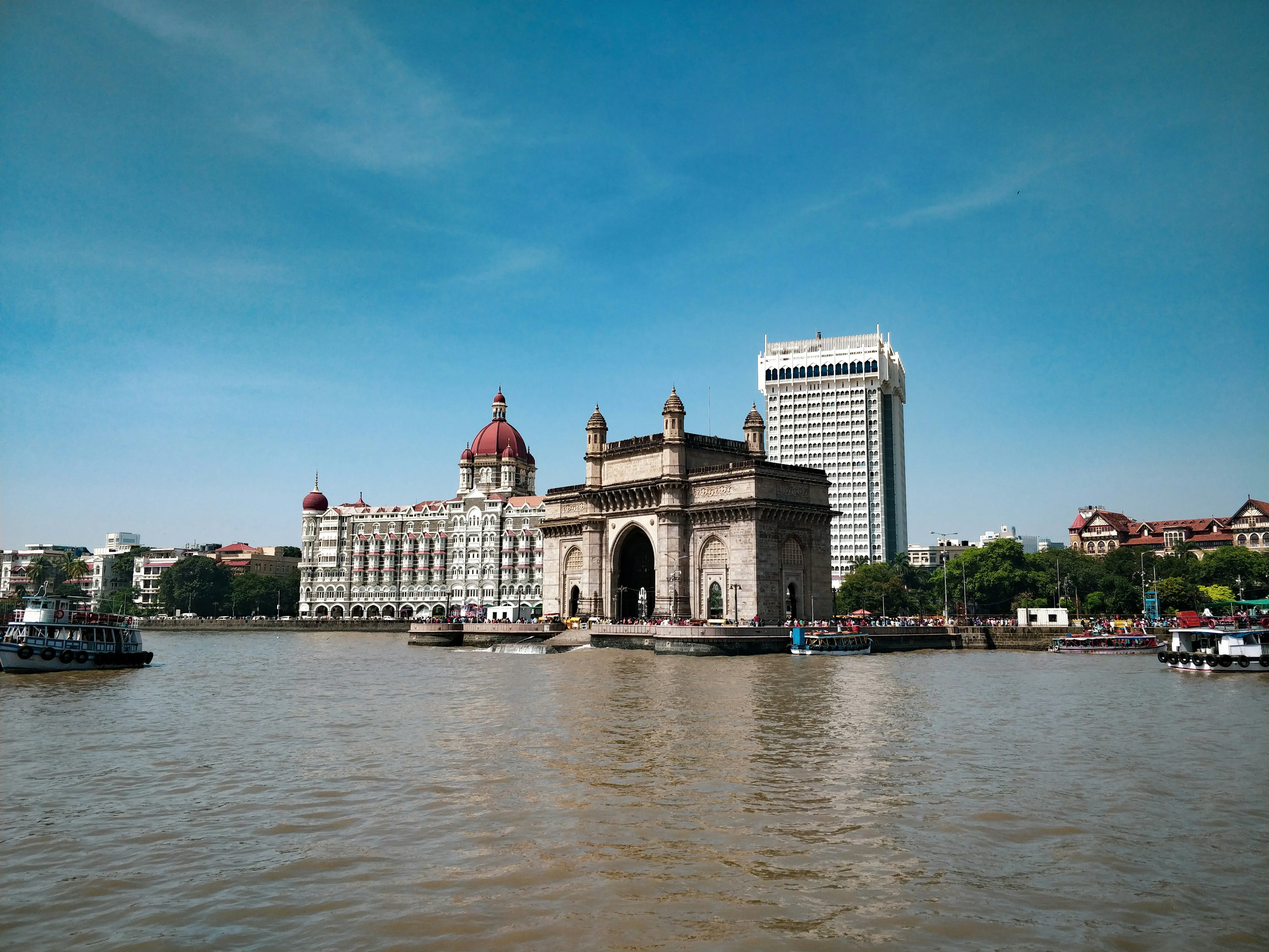
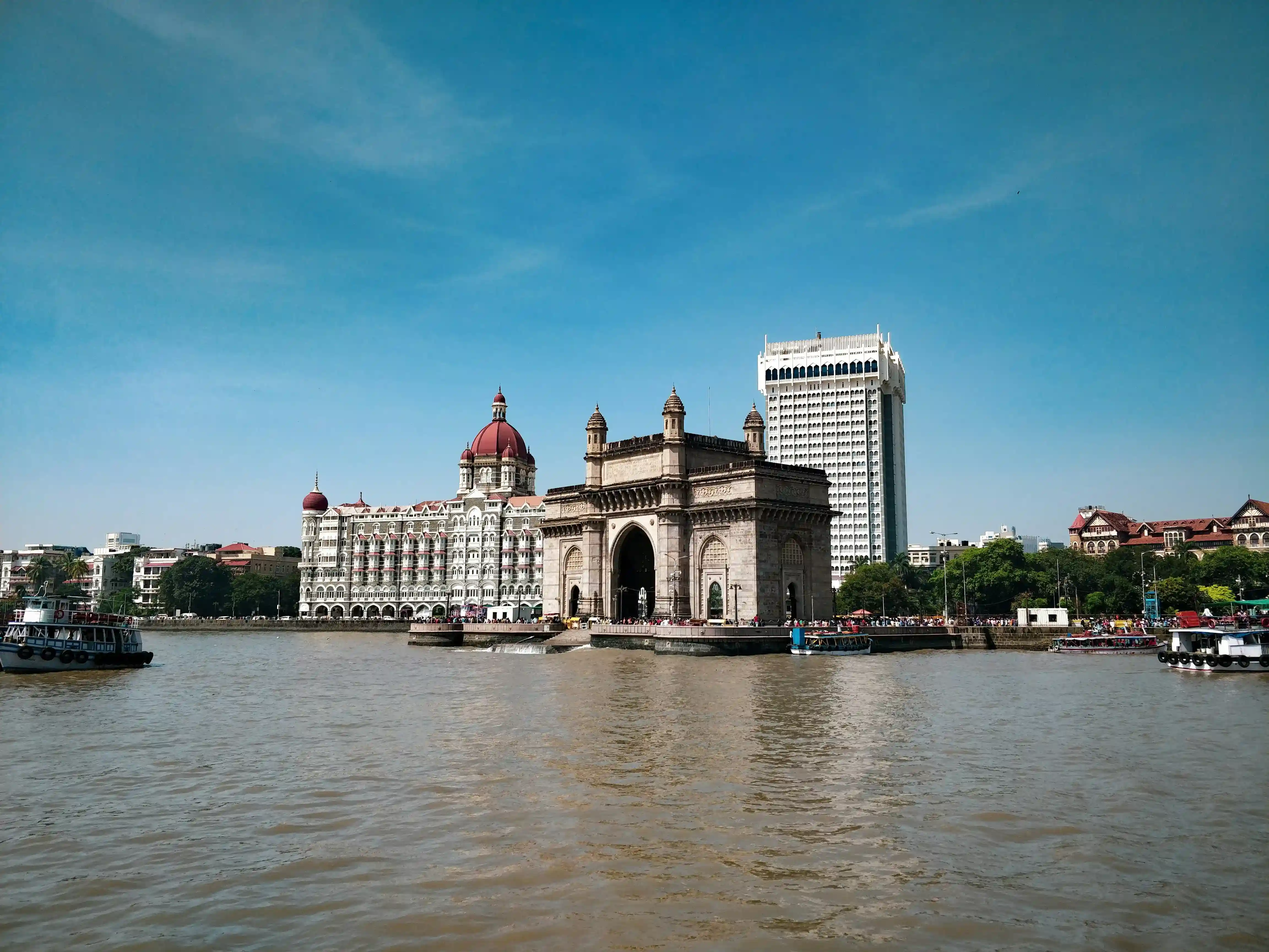
Final optimization

Changed region(s): [[0.8438, 0.6562, 0.9062, 0.6875], [0.8438, 0.5625, 0.875, 0.5938], [0.3438, 0.625, 0.375, 0.6562]]

diff --git a/app/gallery/page.jsx b/app/gallery/page.jsx
@@ -3,24 +3,24 @@ import { useState, useEffect } from "react";
 import Image from "next/image";
 import SubpageHero from "@/components/sections/subpageHero";
 
-
 const galleryImages = [
-  { id: 1, src: "/images/rn-infotech-05.webp", alt: "Gallery Image 1" },
-  { id: 2, src: "/images/rn-infotech-02.webp", alt: "Gallery Image 2" },
-  { id: 3, src: "/images/rn-infotech-06.webp", alt: "Gallery Image 3" },
-  { id: 4, src: "/images/rn-infotech-07.webp", alt: "Gallery Image 4" },
-  { id: 5, src: "/images/rn-infotech-42.webp", alt: "Gallery Image 5" },
-  { id: 6, src: "/images/rn-infotech-47.webp", alt: "Gallery Image 6" },
-  { id: 7, src: "/images/rn-infotech-50.webp", alt: "Gallery Image 7" },
-  { id: 8, src: "/images/rn-infotech-51.webp", alt: "Gallery Image 8" },
-  { id: 8, src: "/images/rn-infotech-344.webp", alt: "Gallery Image 9" },
-  { id: 8, src: "/images/rn-infotech-01.webp", alt: "Gallery Image 10" },
-  { id: 8, src: "/images/rn-infotech-02.webp", alt: "Gallery Image 11" },
-  { id: 8, src: "/images/rn-infotech-344.webp", alt: "Gallery Image 12" },
-  { id: 8, src: "/images/rn-infotech-03.webp", alt: "Gallery Image 13" },
-  { id: 8, src: "/images/rn-infotech-07.webp", alt: "Gallery Image 14" },
-  { id: 8, src: "/images/rn-infotech-05.webp", alt: "Gallery Image 15" },
-  { id: 8, src: "/images/rn-infotech-06.webp", alt: "Gallery Image 16" },
+  { id: 1, src: "/images/rn-infotech-shop-01.webp", alt: "Gallery Image 1" },
+  { id: 2, src: "/images/rn-infotech-shop-02.webp", alt: "Gallery Image 2" },
+  { id: 3, src: "/images/rn-infotech-shop-03.webp", alt: "Gallery Image 3" },
+  { id: 4, src: "/images/rn-infotech-shop-04.webp", alt: "Gallery Image 4" },
+  { id: 5, src: "/images/rn-infotech-shop-05.webp", alt: "Gallery Image 5" },
+  { id: 6, src: "/images/rn-infotech-shop-06.webp", alt: "Gallery Image 6" },
+  { id: 7, src: "/images/rn-infotech-shop-07.webp", alt: "Gallery Image 7" },
+  { id: 8, src: "/images/rn-infotech-shop-08.webp", alt: "Gallery Image 8" },
+  { id: 9, src: "/images/rn-infotech-02.webp", alt: "Gallery Image 9" },
+  { id: 10, src: "/images/rn-infotech-06.webp", alt: "Gallery Image 10" },
+  { id: 11, src: "/images/rn-infotech-07.webp", alt: "Gallery Image 11" },
+  { id: 12, src: "/images/rn-infotech-42.webp", alt: "Gallery Image 12" },
+  { id: 13, src: "/images/rn-infotech-47.webp", alt: "Gallery Image 13" },
+  { id: 14, src: "/images/rn-infotech-50.webp", alt: "Gallery Image 14" },
+  { id: 15, src: "/images/rn-infotech-51.webp", alt: "Gallery Image 15" },
+  { id: 16, src: "/images/rn-infotech-344.webp", alt: "Gallery Image 16" },
+  { id: 17, src: "/images/rn-infotech-shop-06.webp", alt: "Gallery Image 17" },
 ];
 
 const Gallery = () => {

diff --git a/components/sections/servicesSection.jsx b/components/sections/servicesSection.jsx
@@ -20,31 +20,31 @@ const services = [
     title: "Windows Laptop Repair",
     description:
       "Boost your laptop's performance with a RAM or storage upgrade. We recommend and install the best compatible options for your device.",
-    image: "/images/rn-infotech-36.webp",
-    href: "/services/ram-and-storage-upgrade",
+    image: "/images/rn-infotech-37.webp",
+    href: "/services/laptop-repair",
   },
   {
     id: "03",
     title: "iMac & Desktop Computer Repair",
     description:
       "Boost your laptop's performance with a RAM or storage upgrade. We recommend and install the best compatible options for your device.",
-    image: "/images/rn-infotech-36.webp",
-    href: "/services/ram-and-storage-upgrade",
+    image: "/images/rn-infotech-57.webp",
+    href: "/services/laptop-repair",
   },
   {
     id: "04",
     title: "Apple & Windows Laptop Spare Parts",
     description:
       "Boost your laptop's performance with a RAM or storage upgrade. We recommend and install the best compatible options for your device.",
-    image: "/images/rn-infotech-36.webp",
-    href: "/services/ram-and-storage-upgrade",
+    image: "/images/rn-infotech-70.webp",
+    href: "/services/laptop-repair",
   },
   {
     id: "05",
     title: "Second Hand Laptops",
     description:
       "Get a quality-tested, affordable second-hand laptop that fits your budget. Perfect for students, freelancers, and small businesses looking for value.",
-    image: "/images/rn-infotech-11.webp",
+    image: "/images/rn-infotech-shop-08.webp",
     href: "/services/second-hand-laptops",
   },
   {
@@ -52,7 +52,7 @@ const services = [
     title: "RAM & Storage Upgrade",
     description:
       "Boost your laptop's performance with a RAM or storage upgrade. We recommend and install the best compatible options for your device.",
-    image: "/images/rn-infotech-36.webp",
+    image: "/images/rn-infotech-ram.webp",
     href: "/services/ram-and-storage-upgrade",
   },
 ];

diff --git a/components/ui/socialLinks.jsx b/components/ui/socialLinks.jsx
@@ -15,45 +15,6 @@ const socilLinks = () => {
           alt="Just Dial Nasir Khan RN Infotech"
           width={70}
           height={70}
-          className="icon-color-black"
-        />
-      </Link>
-      <Link
-        href="https://facebook.com"
-        target="_blank"
-        className="transition-transform duration-600 hover:-translate-y-1 text-white hover:text-primary transition-colors"
-      >
-        <Image
-          src="/icons/facebook.webp"
-          alt="Facebook"
-          width={30}
-          height={30}
-          className=""
-        />
-      </Link>
-      <Link
-        href="https://instagram.com"
-        target="_blank"
-        className="transition-transform duration-600 hover:-translate-y-1 text-white hover:text-primary transition-colors"
-      >
-        <Image
-          src="/icons/instagram.webp"
-          alt="Instagram"
-          width={30}
-          height={30}
-          className=""
-        />
-      </Link>
-      <Link
-        href="https://youtube.com"
-        target="_blank"
-        className="transition-transform duration-600 hover:-translate-y-1 text-white hover:text-primary transition-colors"
-      >
-        <Image
-          src="/icons/youtube.webp"
-          alt="YouTube"
-          width={30}
-          height={30}
           className=""
         />
       </Link>

diff --git a/app/contact/page.jsx b/app/contact/page.jsx
@@ -44,7 +44,7 @@ const ContactUs = () => {
               <div className="flex gap-2">
                 <div>📧</div>
                 <div>
-                  Email: Drop us an email and we'll respond at the earliest.
+                  Email: rninfotechrepair@gmail.com
                 </div>
               </div>
             </p>
@@ -54,7 +54,7 @@ const ContactUs = () => {
               <div>
                 Business Hours:
                 <br />
-                Monday – Saturday: 10:00 AM – 9:00 PM
+                Monday – Saturday: 11:00 AM – 9:00 PM
                 <br />
                 Sunday: By Appointment Only
               </div>
@@ -72,7 +72,7 @@ const ContactUs = () => {
         cta="Repair Your Machine"
         isClickToCall={true}
         customBtn="w-[255px]"
-        imageSrc="/images/rn-infotech-53.webp"
+        imageSrc="/images/rn-infotech-shop-01.webp"
       />
     </>
   );

diff --git a/components/sections/navbarSection/navData.js b/components/sections/navbarSection/navData.js
@@ -12,16 +12,16 @@ export const aboutLinks = [
     href: "/service-area",
   },
   {
-    title: "Meet Our Team",
-    description: "Lorem ipsum dolor sit amet, consectetur adipiscing elit.",
-    image: "/images/rn-infotech-29.webp",
-    href: "/meet-our-team",
+    title: "Gallery",
+    description: "Explore Our Repair Gallery: Before & After Transformations",
+    image: "/images/rn-infotech-shop-02.webp",
+    href: "/gallery",
   },
 ];
 
 export const servicesLinks = [
   {
-    title: "Laptop Repair",
+    title: "Macbook Repair",
     description: "Fast & Reliable Laptop Repair in Mumbai",
     image: "/images/rn-infotech-27.webp",
     href: "/services/laptop-repair",
@@ -42,6 +42,5 @@ export const servicesLinks = [
 
 export const navLinks = [
   { title: "HOME", href: "/" },
-  { title: "GALLERY", href: "/gallery" },
   { title: "CONTACT", href: "/contact" },
 ];

diff --git a/components/ui/marqueeText.jsx b/components/ui/marqueeText.jsx
@@ -17,7 +17,7 @@ const Marquee = () => {
         {marqueeItems.map((item, i) => (
           <span
             key={`a-${i}`}
-            className=" text-shadow-[0_0_10px] text-shadow-blue-500  text-xl md:text-2xl font-normal text-blue-200 mx-6 md:mx-10"
+            className="text-shadow-[0_0_10px] text-shadow-blue-500  text-xl md:text-2xl font-normal text-blue-200 mx-6 md:mx-10"
           >
             {item}
           </span>
@@ -27,7 +27,7 @@ const Marquee = () => {
         {marqueeItems.map((item, i) => (
           <span
             key={`b-${i}`}
-            className=" text-shadow-[0_0_10px] text-shadow-blue-500  text-xl md:text-2xl font-normal text-blue-200 mx-6 md:mx-10"
+            className="text-shadow-[0_0_10px] text-shadow-blue-500  text-xl md:text-2xl font-normal text-blue-200 mx-6 md:mx-10"
           >
             {item}
           </span>

diff --git a/app/services/second-hand-laptops/page.jsx b/app/services/second-hand-laptops/page.jsx
@@ -116,7 +116,7 @@ const LaptopRepair = () => {
           </div>
         }
         isCtaBtn={false}
-        imageSrc="/images/rn-infotech-60.webp"
+        imageSrc="/images/rn-infotech-shop-08.webp"
         imageLeft={true}
         bgColor="bg-section-bg"
       />
@@ -148,9 +148,9 @@ const LaptopRepair = () => {
           </div>
         }
         isCtaBtn={false}
-        imageSrc="/images/rn-infotech-66.webp"
+        imageSrc="/images/rn-infotech-shop-05.webp"
       />
-      <Faqs image="/images/rn-infotech-23.webp" faqs={faqs} title="Second Hand Laptops — Frequently Asked Questions" />
+      <Faqs image="/images/rn-infotech-shop-04.webp" faqs={faqs} title="Second Hand Laptops — Frequently Asked Questions" />
       <FinalCta
         label="Find Your Laptop Today"
         title="Looking for an Affordable Laptop in Mumbai?"

diff --git a/app/about/page.jsx b/app/about/page.jsx
@@ -48,7 +48,7 @@ const AboutUs = () => {
         }
         cta="Repair Your Machine"
         href="/services"
-        imageSrc="/images/rn-infotech-47.webp"
+        imageSrc="/images/rn-infotech-shop-02.webp"
       />
       <TextAndImageSection
         label="Our Story"
@@ -77,7 +77,7 @@ const AboutUs = () => {
         }
         cta="Contact Us"
         href="/contact"
-        imageSrc="/images/rn-infotech-51.webp"
+        imageSrc="/images/rn-infotech-shop-01.webp"
         imageLeft={true}
         bgColor="bg-section-bg"
       />

diff --git a/components/sections/heroSection.jsx b/components/sections/heroSection.jsx
@@ -24,7 +24,7 @@ const Hero = () => {
 
             {/* Buttons */}
             <div className="flex flex-col sm:flex-row gap-3 md:gap-5">
-              <PrimaryBtn custom="w-[214px]" href="/services" btnText="View Services"/>
+              <PrimaryBtn custom="w-[204px]" href="/services" btnText="View Services"/>
               <SecondaryBtn href="/contact" custom="border border-light-blue" btnText="Talk to a Technician"/>
             </div>
 

diff --git a/components/sections/faqSection.jsx b/components/sections/faqSection.jsx
@@ -33,7 +33,7 @@ const FaqItem = ({faq, isOpen, onToggle }) => (
   </div>
 );
 
-const Faqs = ({image='/images/rn-infotech-23.webp', faqs=[],label="? FAQs", title="Frequently Asked Questions"}) => {
+const Faqs = ({image='/images/rn-infotech-shop-02.webp', faqs=[],label="? FAQs", title="Frequently Asked Questions"}) => {
   const [openId, setOpenId] = useState(null);
 
   const handleToggle = (id) => {

diff --git a/app/services/page.jsx b/app/services/page.jsx
@@ -123,7 +123,7 @@ const services = [
     title: "RAM Modules",
     description:
       "Boost your laptop's speed and multitasking ability with compatible RAM upgrades. Available for all major models.",
-    image: "/images/rn-infotech-73.webp",
+    image: "/images/rn-infotech-ram.webp",
     href: "/services/ram-and-storage-upgrade",
   },
   {

diff --git a/components/sections/navbarSection/topBar.jsx b/components/sections/navbarSection/topBar.jsx
@@ -42,7 +42,7 @@ const TopBar = () => {
           target="_blank"
           className="max-[380px]:text-xs text-md lg:text-lg"
         >
-          GrandRoad,Mumbai
+          GrantRoad,Mumbai
         </Link>
       </div>
     </div>
